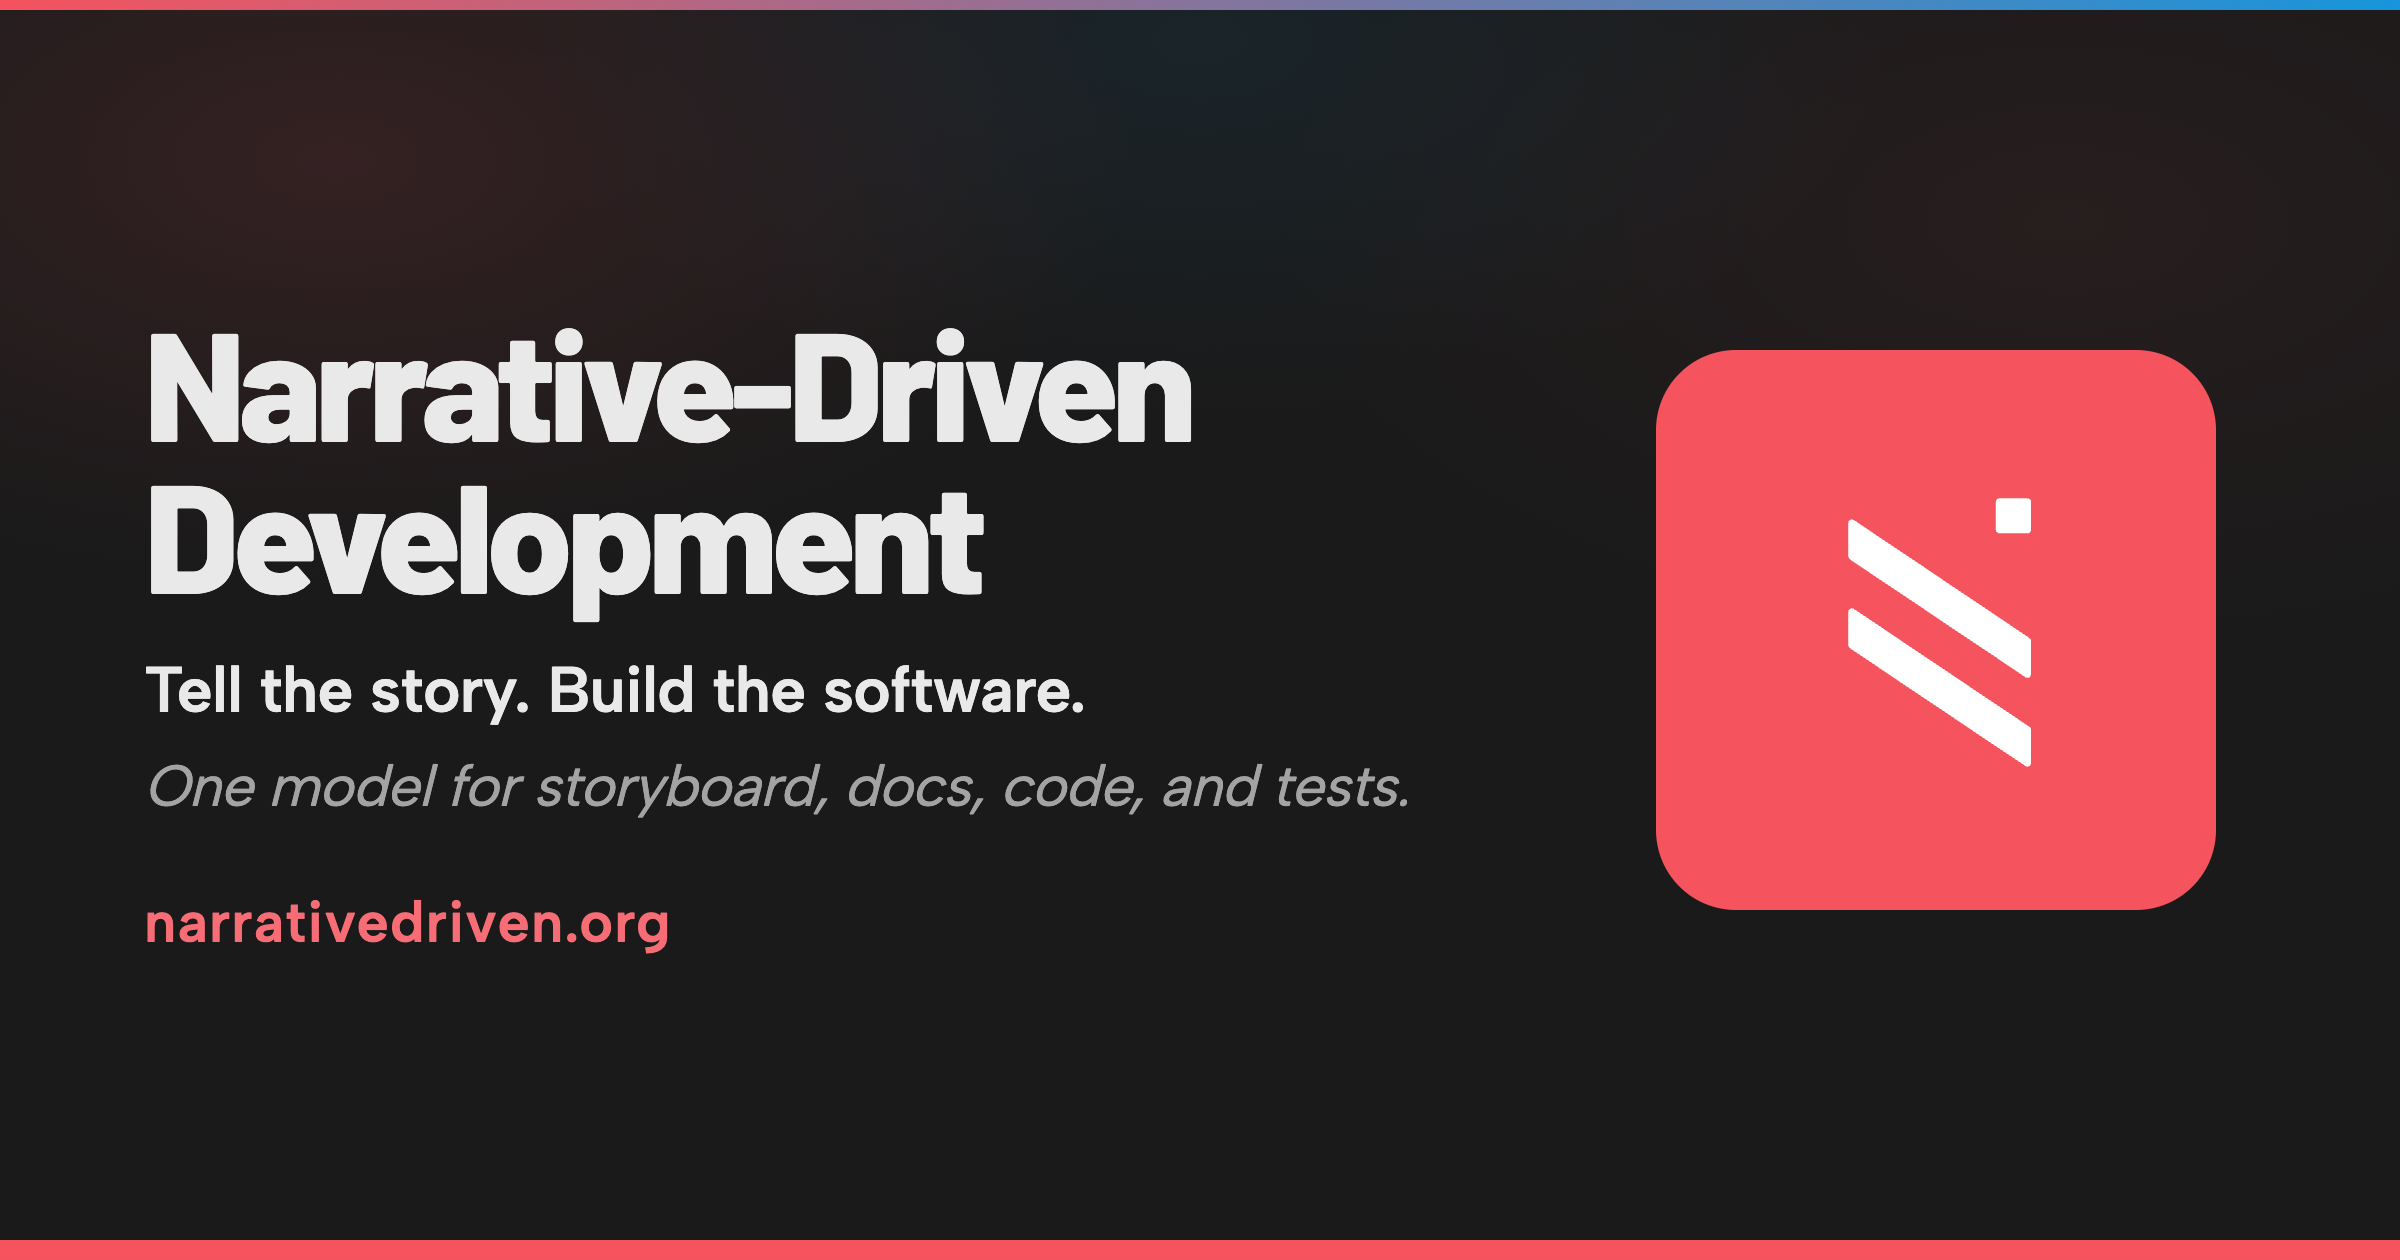
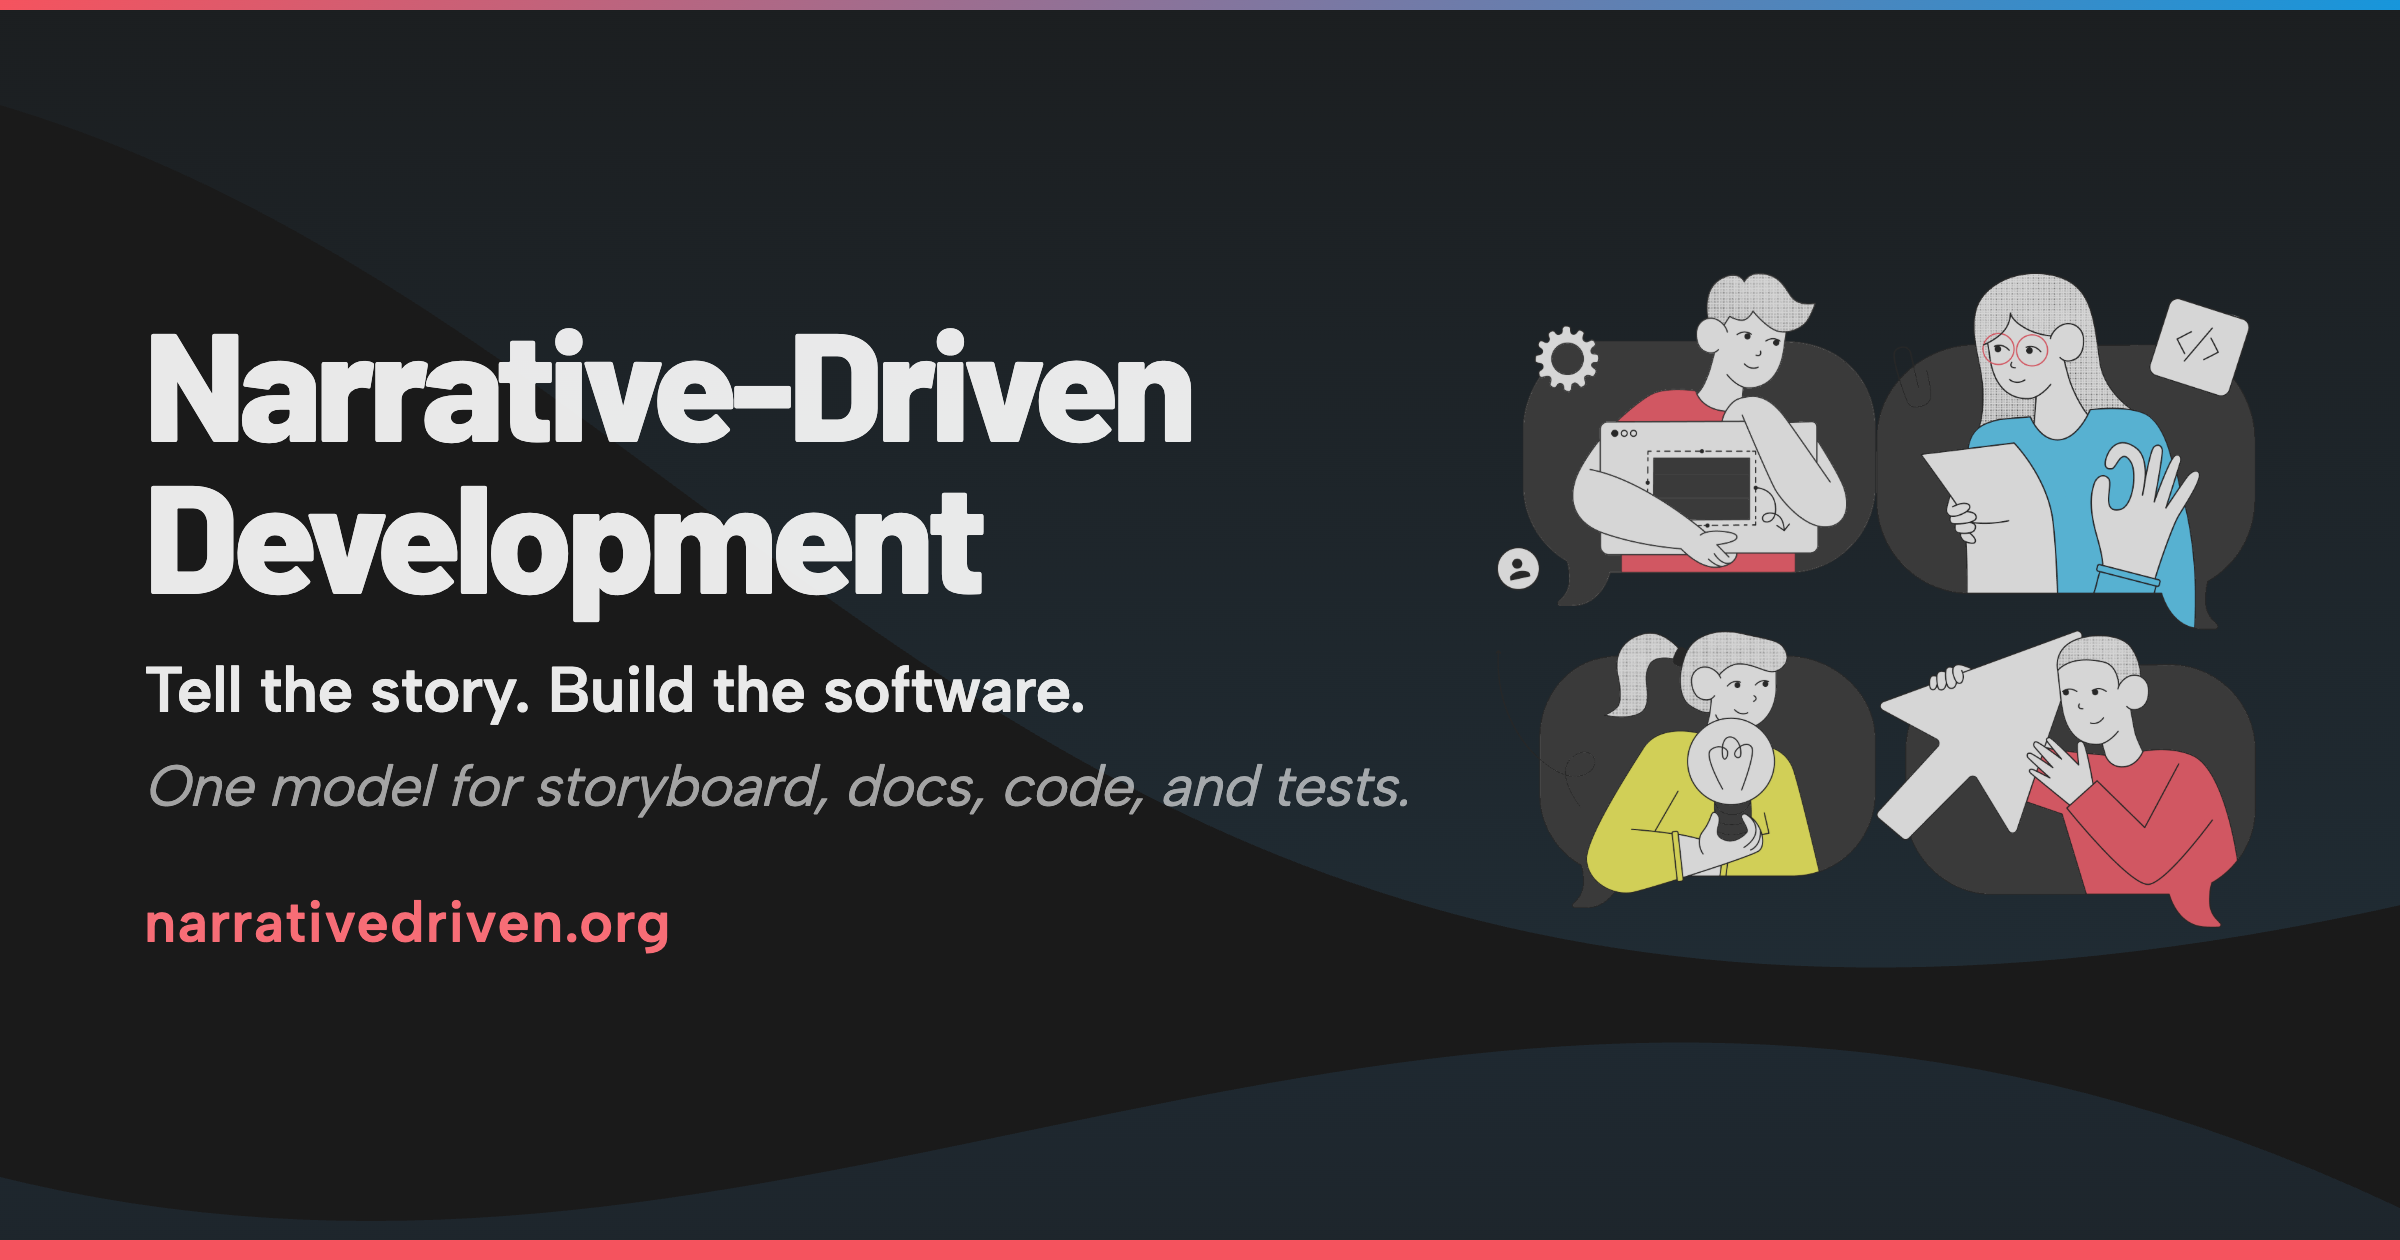
feat: add Open Graph meta tags and update image generation logic

Changed region(s): [[0.625, 0.2167, 0.9688, 0.7738]]

diff --git a/scripts/og/template.html b/scripts/og/template.html
@@ -34,35 +34,29 @@ body.light {
 body.light .text-secondary { color: #3c3c3c; }
 body.light .url-text { color: #f5535e; }
 
-/* Ambient glow */
-body::before {
-  content: '';
-  position: absolute;
-  top: -100px;
-  left: -10%;
-  width: 120%;
-  height: 600px;
-  background:
-    radial-gradient(ellipse 40% 50% at 20% 30%, rgba(245, 83, 94, 0.12) 0%, transparent 70%),
-    radial-gradient(ellipse 35% 45% at 50% 20%, rgba(23, 150, 219, 0.08) 0%, transparent 70%),
-    radial-gradient(ellipse 40% 50% at 80% 35%, rgba(245, 83, 94, 0.06) 0%, transparent 70%);
-  pointer-events: none;
-  z-index: 0;
-}
-
-body.light::before {
-  background:
-    radial-gradient(ellipse 40% 50% at 20% 30%, rgba(245, 83, 94, 0.08) 0%, transparent 70%),
-    radial-gradient(ellipse 35% 45% at 50% 20%, rgba(23, 150, 219, 0.05) 0%, transparent 70%),
-    radial-gradient(ellipse 40% 50% at 80% 35%, rgba(245, 83, 94, 0.04) 0%, transparent 70%);
-}
-
 /* ---- Layout ---- */
 .og-card {
   position: relative;
   width: 1200px;
   height: 630px;
   overflow: hidden;
+}
+
+/* Wave background */
+.wave-bg {
+  position: absolute;
+  top: -200px;
+  left: 0;
+  width: 100%;
+  height: 1320px;
+  overflow: hidden;
+  pointer-events: none;
+  z-index: 0;
+}
+
+.wave-bg svg {
+  width: 100%;
+  height: 100%;
 }
 
 /* Content */
@@ -74,7 +68,7 @@ body.light::before {
   align-items: center;
   padding: 0 72px;
   height: 100%;
-  gap: 48px;
+  gap: 32px;
 }
 
 .hero-text {
@@ -116,32 +110,19 @@ body.light::before {
   letter-spacing: 0.02em;
 }
 
-/* Logo area */
-.hero-logo {
-  flex: 0 0 320px;
-  display: flex;
-  justify-content: center;
-  align-items: center;
-  height: 100%;
+/* Hero illustrations grid */
+.hero-illustrations {
+  flex: 0 0 380px;
+  display: grid;
+  grid-template-columns: 1fr 1fr;
+  grid-template-rows: 1fr 1fr;
+  gap: 0;
+  max-width: 380px;
 }
 
-.logo-mark {
-  width: 280px;
-  height: 280px;
-  border-radius: 40px;
-  display: flex;
-  justify-content: center;
-  align-items: center;
-  background: #f5535e;
-}
-
-body.light .logo-mark {
-  background: #f5535e;
-}
-
-.logo-mark svg {
-  width: 200px;
-  height: 200px;
+.hero-img {
+  width: 100%;
+  height: auto;
 }
 
 /* Bottom brand stripe */
@@ -153,10 +134,6 @@ body.light .logo-mark {
   height: 10px;
   background: #f5535e;
   z-index: 10;
-}
-
-body.light .hero-stripe {
-  background: #f5535e;
 }
 
 /* Top accent line */
@@ -176,6 +153,9 @@ body.light .hero-stripe {
   <!-- Top gradient stripe -->
   <div class="hero-stripe-top" aria-hidden="true"></div>
 
+  <!-- Wave background -->
+  <div class="wave-bg" id="wave-bg" aria-hidden="true"></div>
+
   <!-- Content -->
   <div class="hero-content">
     <div class="hero-text">
@@ -184,15 +164,7 @@ body.light .hero-stripe {
       <p class="hero-tagline-sub text-secondary">One model for storyboard, docs, code, and tests.</p>
       <p class="hero-url url-text">narrativedriven.org</p>
     </div>
-    <div class="hero-logo">
-      <div class="logo-mark">
-        <svg viewBox="0 0 40 40" fill="none" xmlns="http://www.w3.org/2000/svg">
-          <path d="M25.9872 7.18368C25.9872 6.99014 26.1445 6.83325 26.3385 6.83325H29.1488C29.3428 6.83325 29.5001 6.99014 29.5001 7.18368V9.9871C29.5001 10.1806 29.3428 10.3375 29.1488 10.3375H26.3385C26.1445 10.3375 25.9872 10.1806 25.9872 9.9871V7.18368Z" fill="white"/>
-          <path d="M11.2334 9.28597C11.2334 9.00563 11.5496 8.83743 11.7814 8.99862L29.3455 20.794C29.4439 20.8571 29.5001 20.9692 29.5001 21.0814V24.4385C29.5001 24.7188 29.1839 24.887 28.9521 24.7258L11.388 12.9374C11.2896 12.8744 11.2334 12.7622 11.2334 12.6501V9.28597Z" fill="white"/>
-          <path d="M11.2334 18.1728C11.2334 17.8925 11.5496 17.7243 11.7814 17.8855L29.3455 29.6809C29.4439 29.744 29.5001 29.8561 29.5001 29.9682V33.3253C29.5001 33.6057 29.1839 33.7739 28.9521 33.6127L11.388 21.8243C11.2896 21.7612 11.2334 21.6491 11.2334 21.537V18.1728Z" fill="white"/>
-        </svg>
-      </div>
-    </div>
+    <div class="hero-illustrations" id="hero-illustrations"></div>
   </div>
 
   <!-- Bottom brand stripe -->
@@ -202,9 +174,47 @@ body.light .hero-stripe {
 <script>
 const params = new URLSearchParams(window.location.search);
 const theme = params.get('theme') || 'dark';
-if (theme === 'light') {
+const isDark = theme === 'dark';
+
+if (!isDark) {
   document.body.classList.add('light');
 }
+
+// Wave background SVG (from WaveBackground.vue)
+const startColor = isDark ? '#1a1a1a' : '#ffffff';
+const endColor1 = isDark ? '#2a4a60' : '#a0ddff';
+const endColor2 = isDark ? '#264055' : '#abdaf3';
+
+document.getElementById('wave-bg').innerHTML = `
+  <svg xmlns="http://www.w3.org/2000/svg" viewBox="0 0 1707 1320" fill="none" preserveAspectRatio="xMidYMid slice">
+    <defs>
+      <linearGradient id="wg0" x1="384.5" y1="40" x2="384.5" y2="934.5" gradientUnits="userSpaceOnUse">
+        <stop offset="0" stop-color="${startColor}" />
+        <stop offset="1" stop-color="${endColor1}" />
+      </linearGradient>
+      <linearGradient id="wg1" x1="760.5" y1="510.6" x2="760.5" y2="-103.9" gradientUnits="userSpaceOnUse">
+        <stop offset="0" stop-color="${startColor}" />
+        <stop offset="1" stop-color="${endColor2}" />
+      </linearGradient>
+    </defs>
+    <path fill="url(#wg0)" fill-opacity="0.5"
+      d="M1707,577.2C653.2,961,672.5,181.1,0,226.5L0,0L1707,0L1707,577.2Z" />
+    <path fill="url(#wg1)" fill-opacity="0.5"
+      d="M0,.1L0,602L1707,602L1707,286C977,-296.5,652.5,397.5,0,.1Z"
+      transform="translate(0, 680)" />
+  </svg>`;
+
+// Hero images (from HeroIllustrations.vue)
+const suffix = isDark ? '-dark' : '';
+const base = new URL('/', window.location.origin).href;
+const grid = document.getElementById('hero-illustrations');
+[1, 2, 3, 4].forEach(n => {
+  const img = document.createElement('img');
+  img.src = `${base}docs/public/images/hero-${n}${suffix}.png`;
+  img.className = 'hero-img';
+  img.alt = '';
+  grid.appendChild(img);
+});
 </script>
 </body>
 </html>
